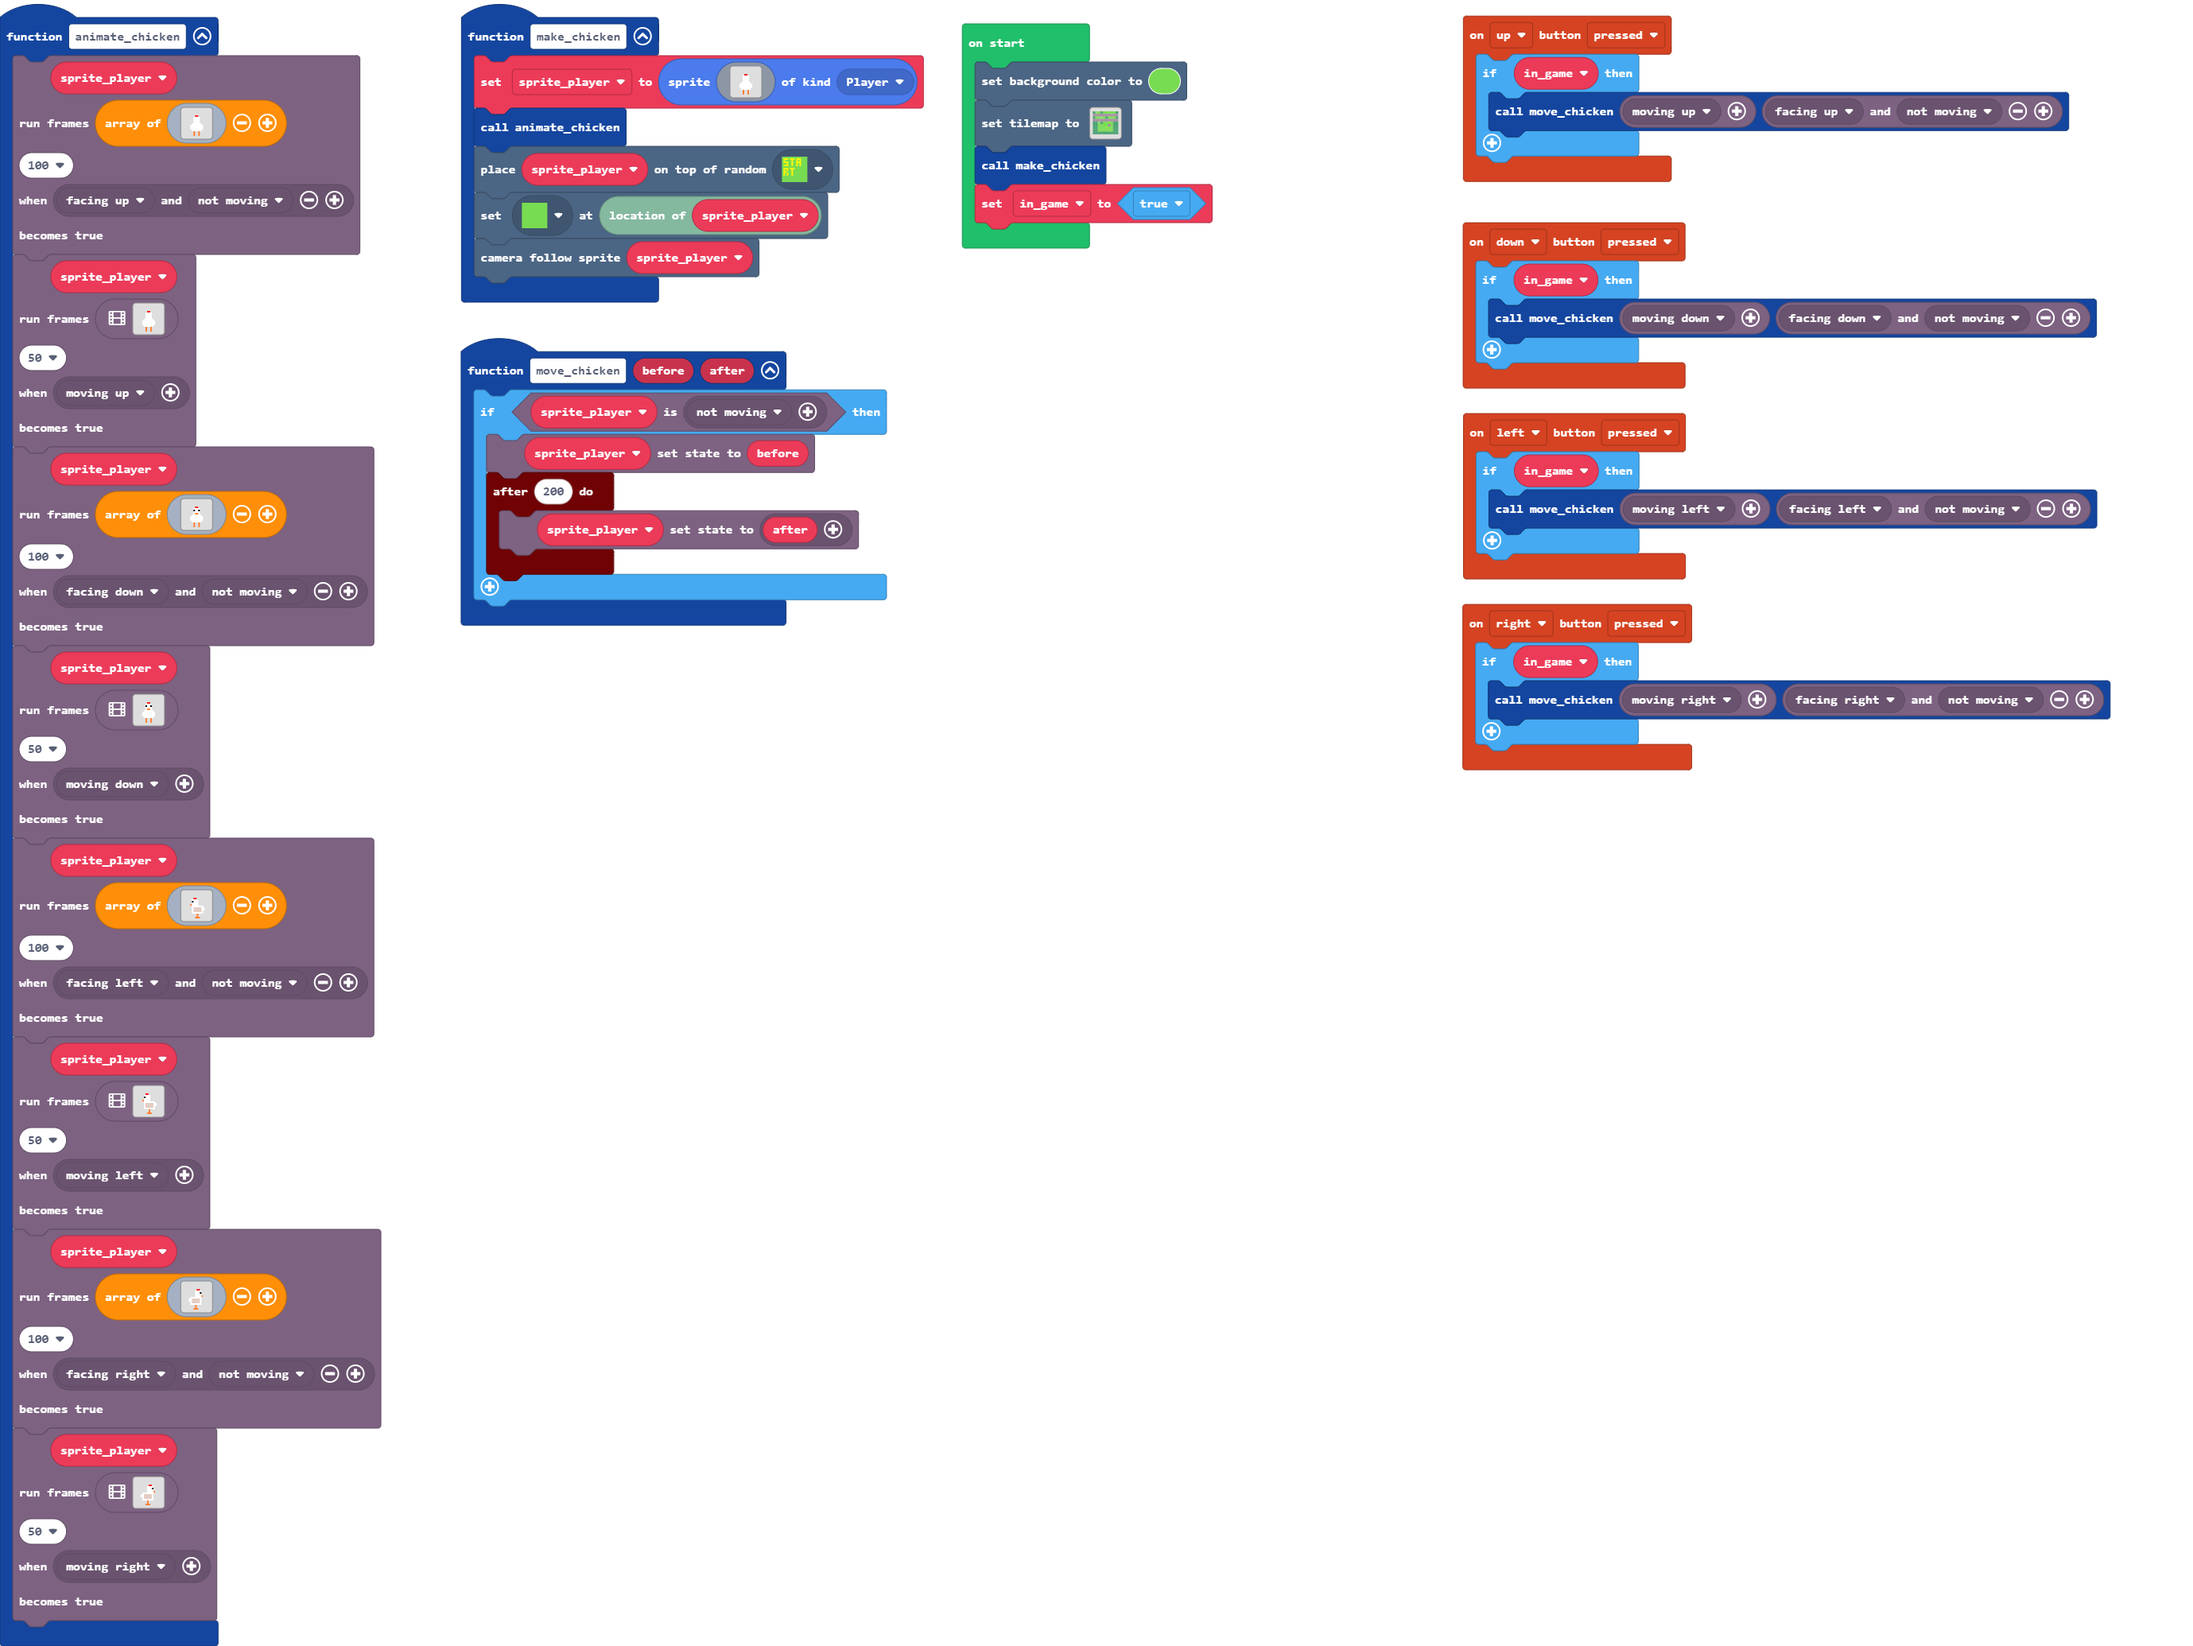
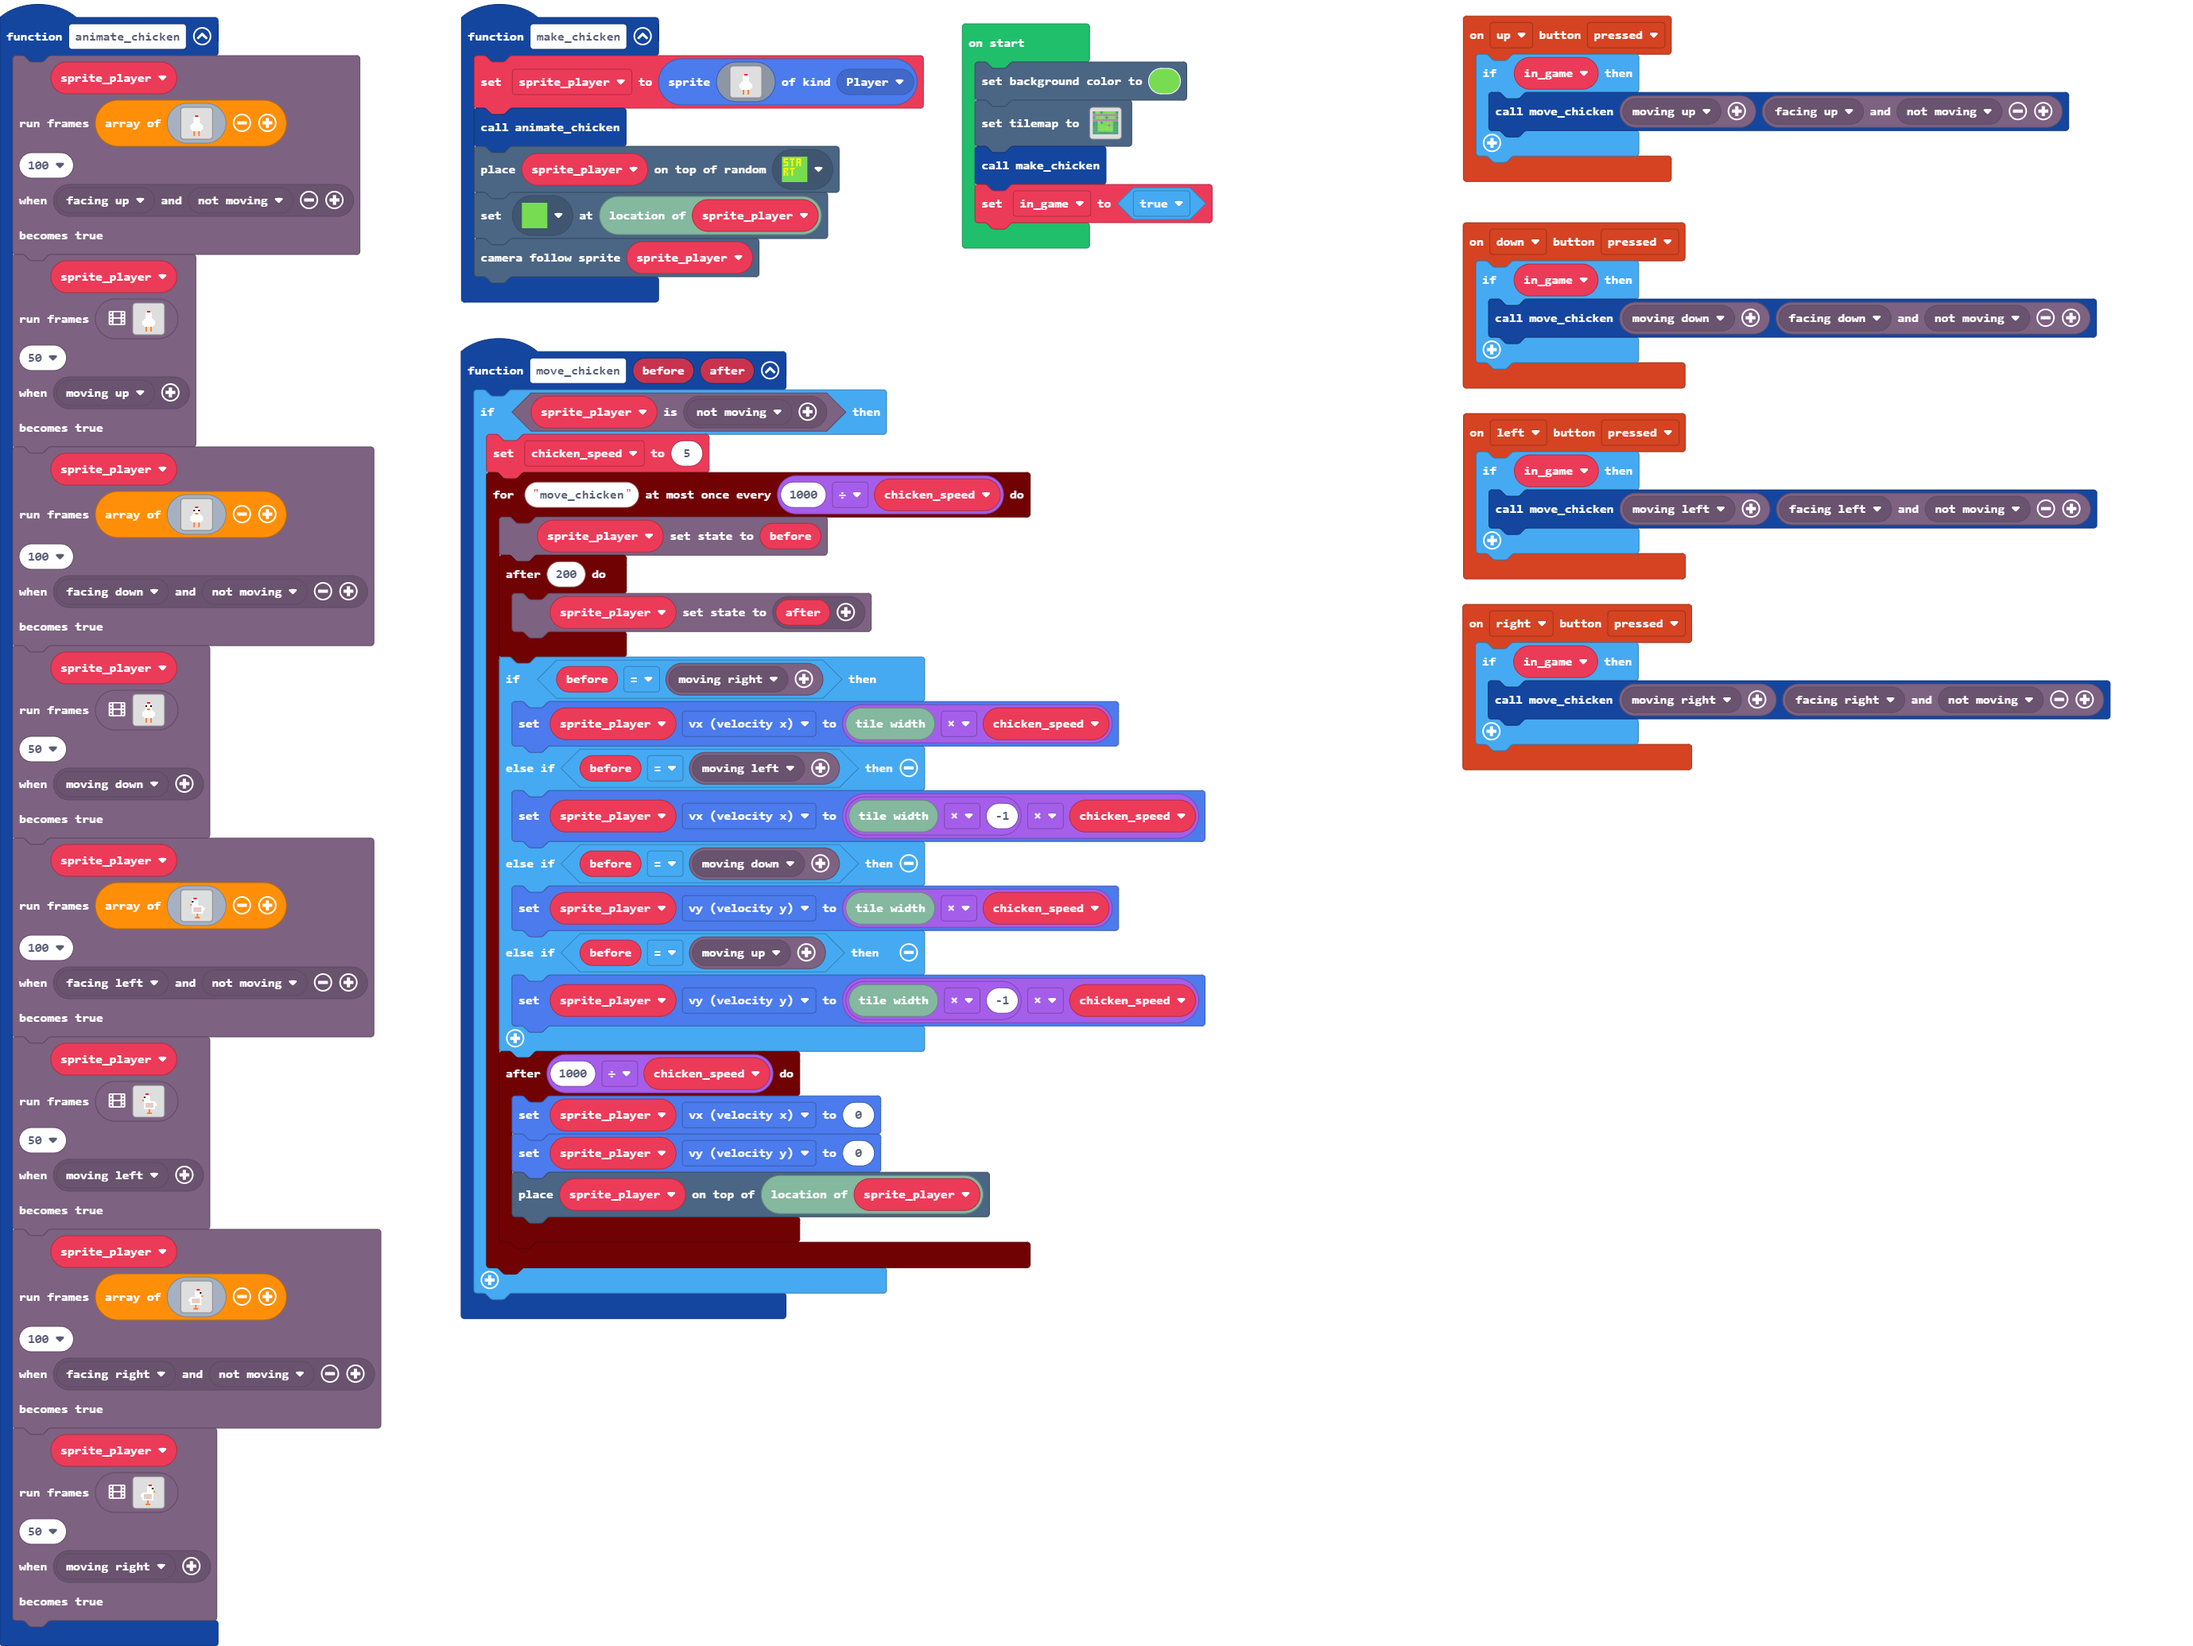
Can move chicken!

Changed region(s): [[0.1871, 0.2473, 0.5613, 0.8039]]

diff --git a/main.ts b/main.ts
@@ -65,9 +65,26 @@ function animate_chicken () {
 }
 function move_chicken (before: number, after: number) {
     if (character.matchesRule(sprite_player, character.rule(Predicate.NotMoving))) {
-        character.setCharacterState(sprite_player, before)
-        timer.after(200, function () {
-            character.setCharacterState(sprite_player, character.rule(after))
+        chicken_speed = 5
+        timer.throttle("move_chicken", 1000 / chicken_speed, function () {
+            character.setCharacterState(sprite_player, before)
+            timer.after(200, function () {
+                character.setCharacterState(sprite_player, character.rule(after))
+            })
+            if (before == character.rule(Predicate.MovingRight)) {
+                sprite_player.vx = tiles.tileWidth() * chicken_speed
+            } else if (before == character.rule(Predicate.MovingLeft)) {
+                sprite_player.vx = tiles.tileWidth() * -1 * chicken_speed
+            } else if (before == character.rule(Predicate.MovingDown)) {
+                sprite_player.vy = tiles.tileWidth() * chicken_speed
+            } else if (before == character.rule(Predicate.MovingUp)) {
+                sprite_player.vy = tiles.tileWidth() * -1 * chicken_speed
+            }
+            timer.after(1000 / chicken_speed, function () {
+                sprite_player.vx = 0
+                sprite_player.vy = 0
+                tiles.placeOnTile(sprite_player, tiles.locationOfSprite(sprite_player))
+            })
         })
     }
 }
@@ -83,6 +100,7 @@ function make_chicken () {
     tiles.setTileAt(tiles.locationOfSprite(sprite_player), assets.tile`grass`)
     scene.cameraFollowSprite(sprite_player)
 }
+let chicken_speed = 0
 let sprite_player: Sprite = null
 let in_game = false
 scene.setBackgroundColor(7)
